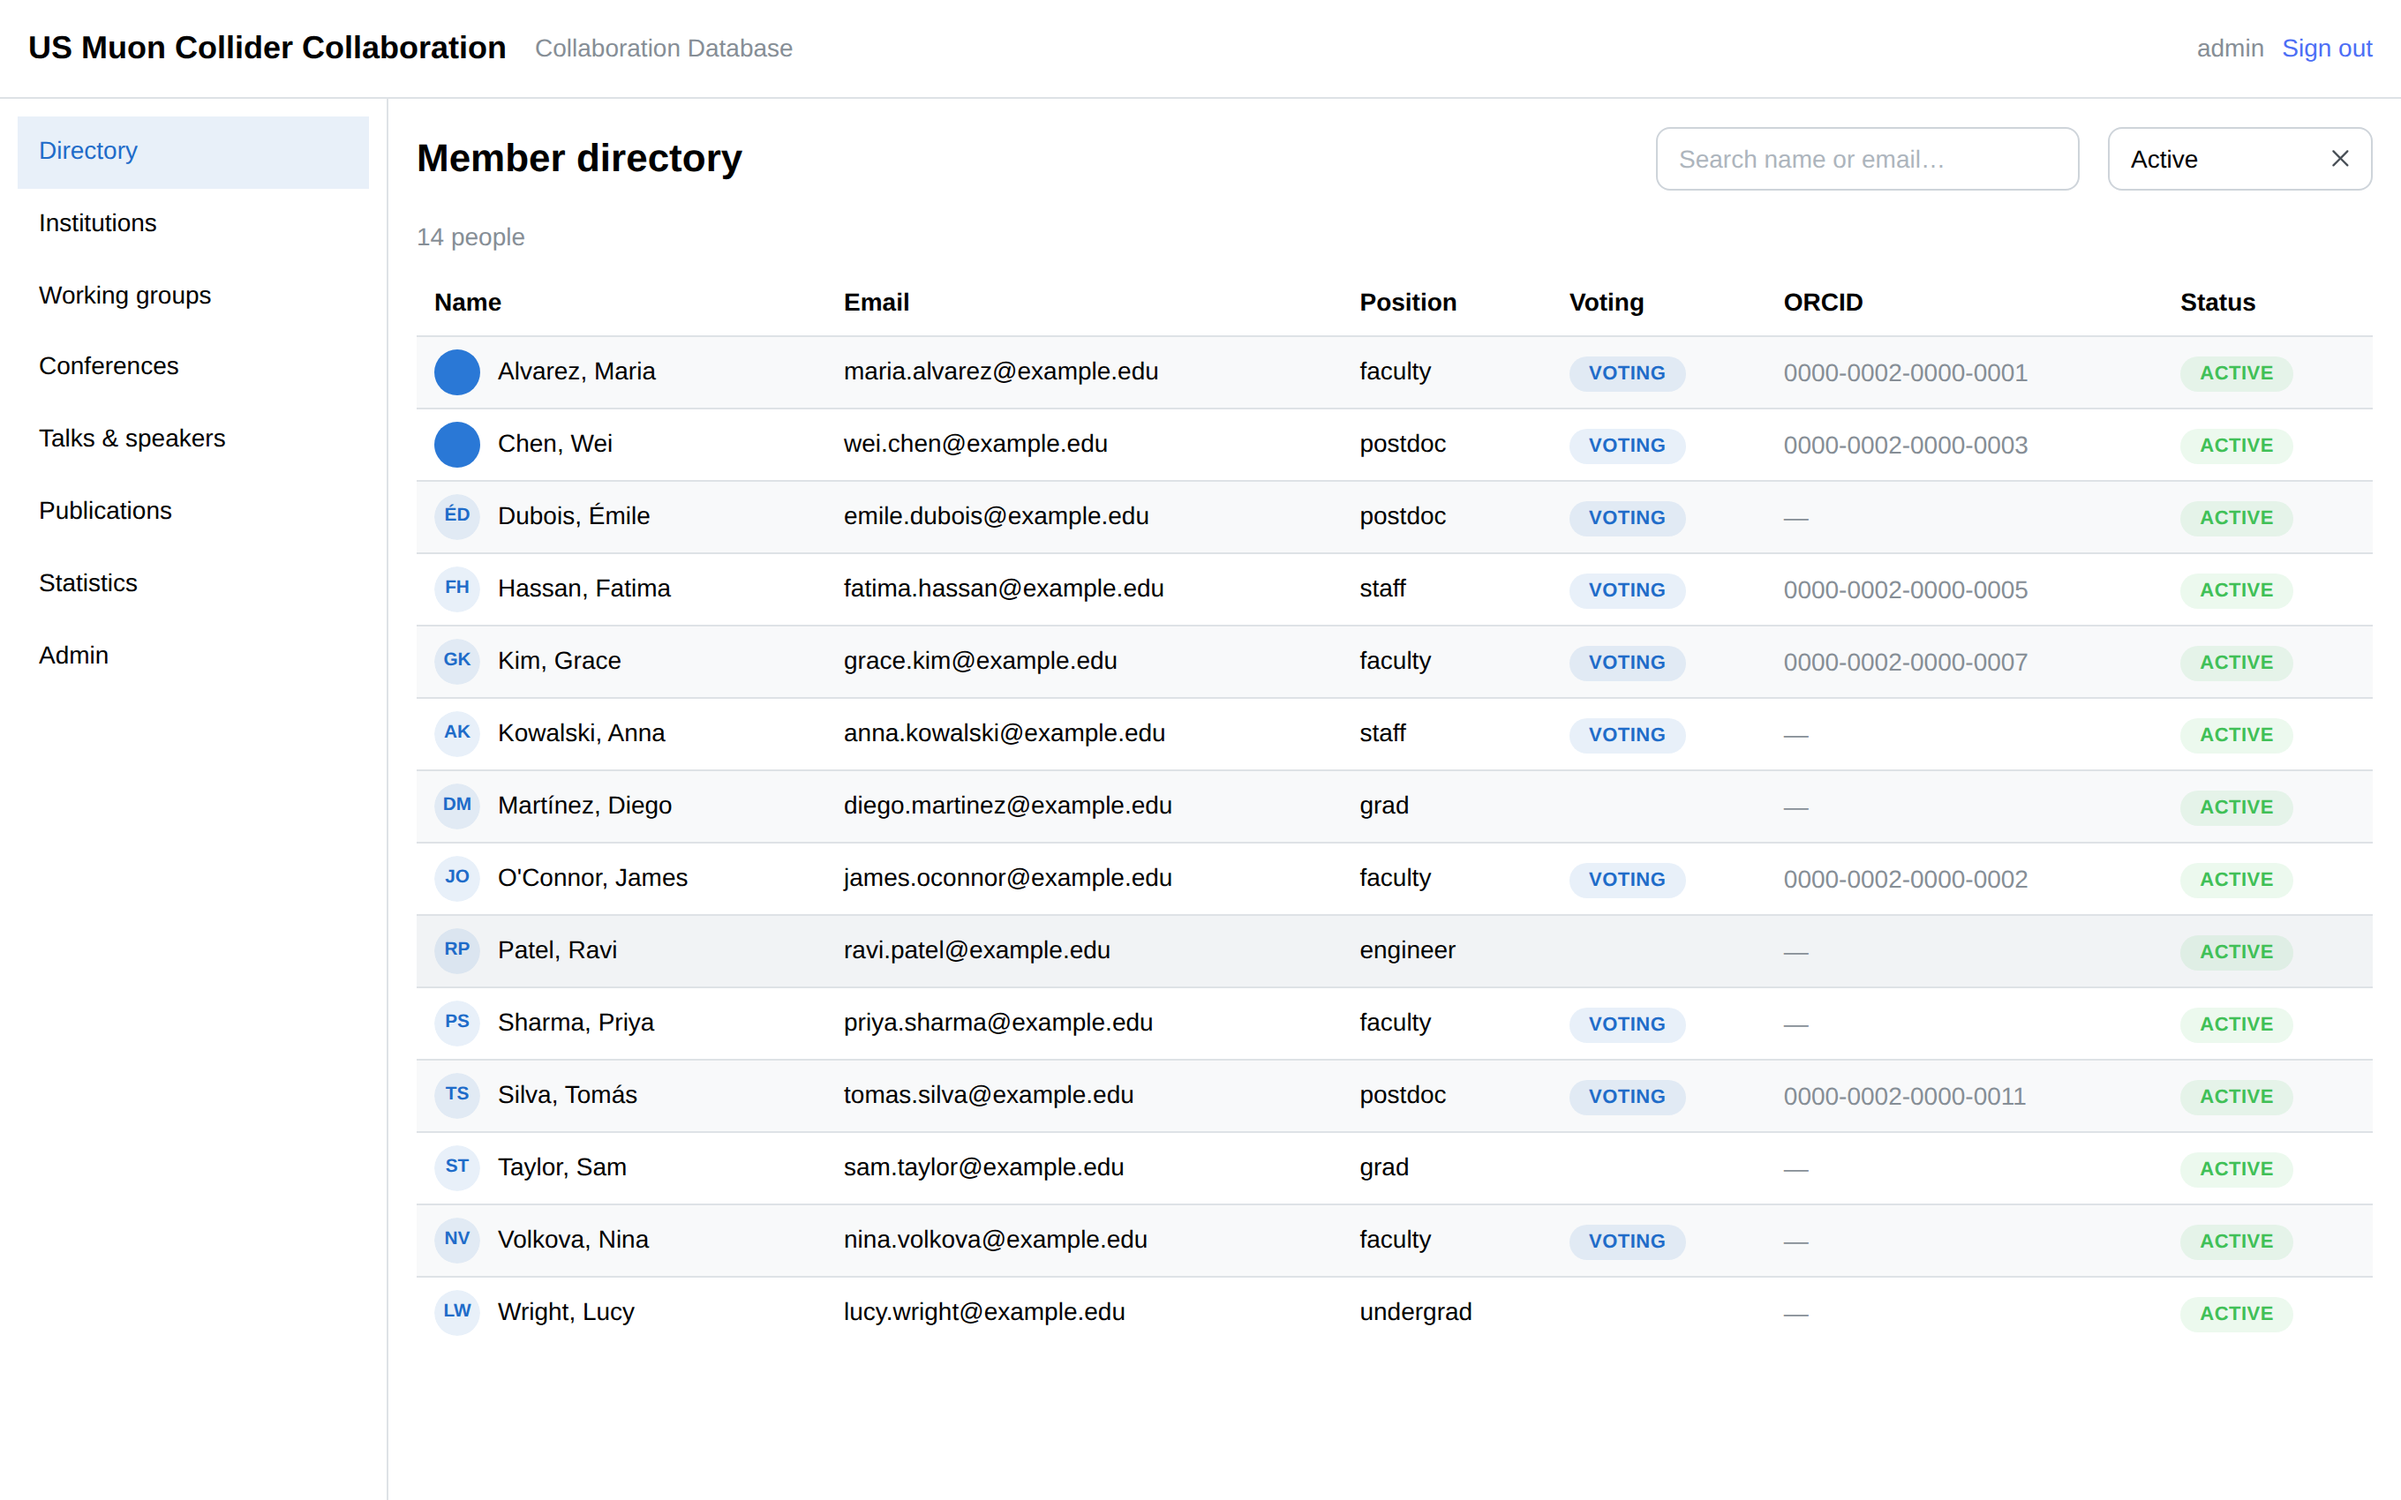
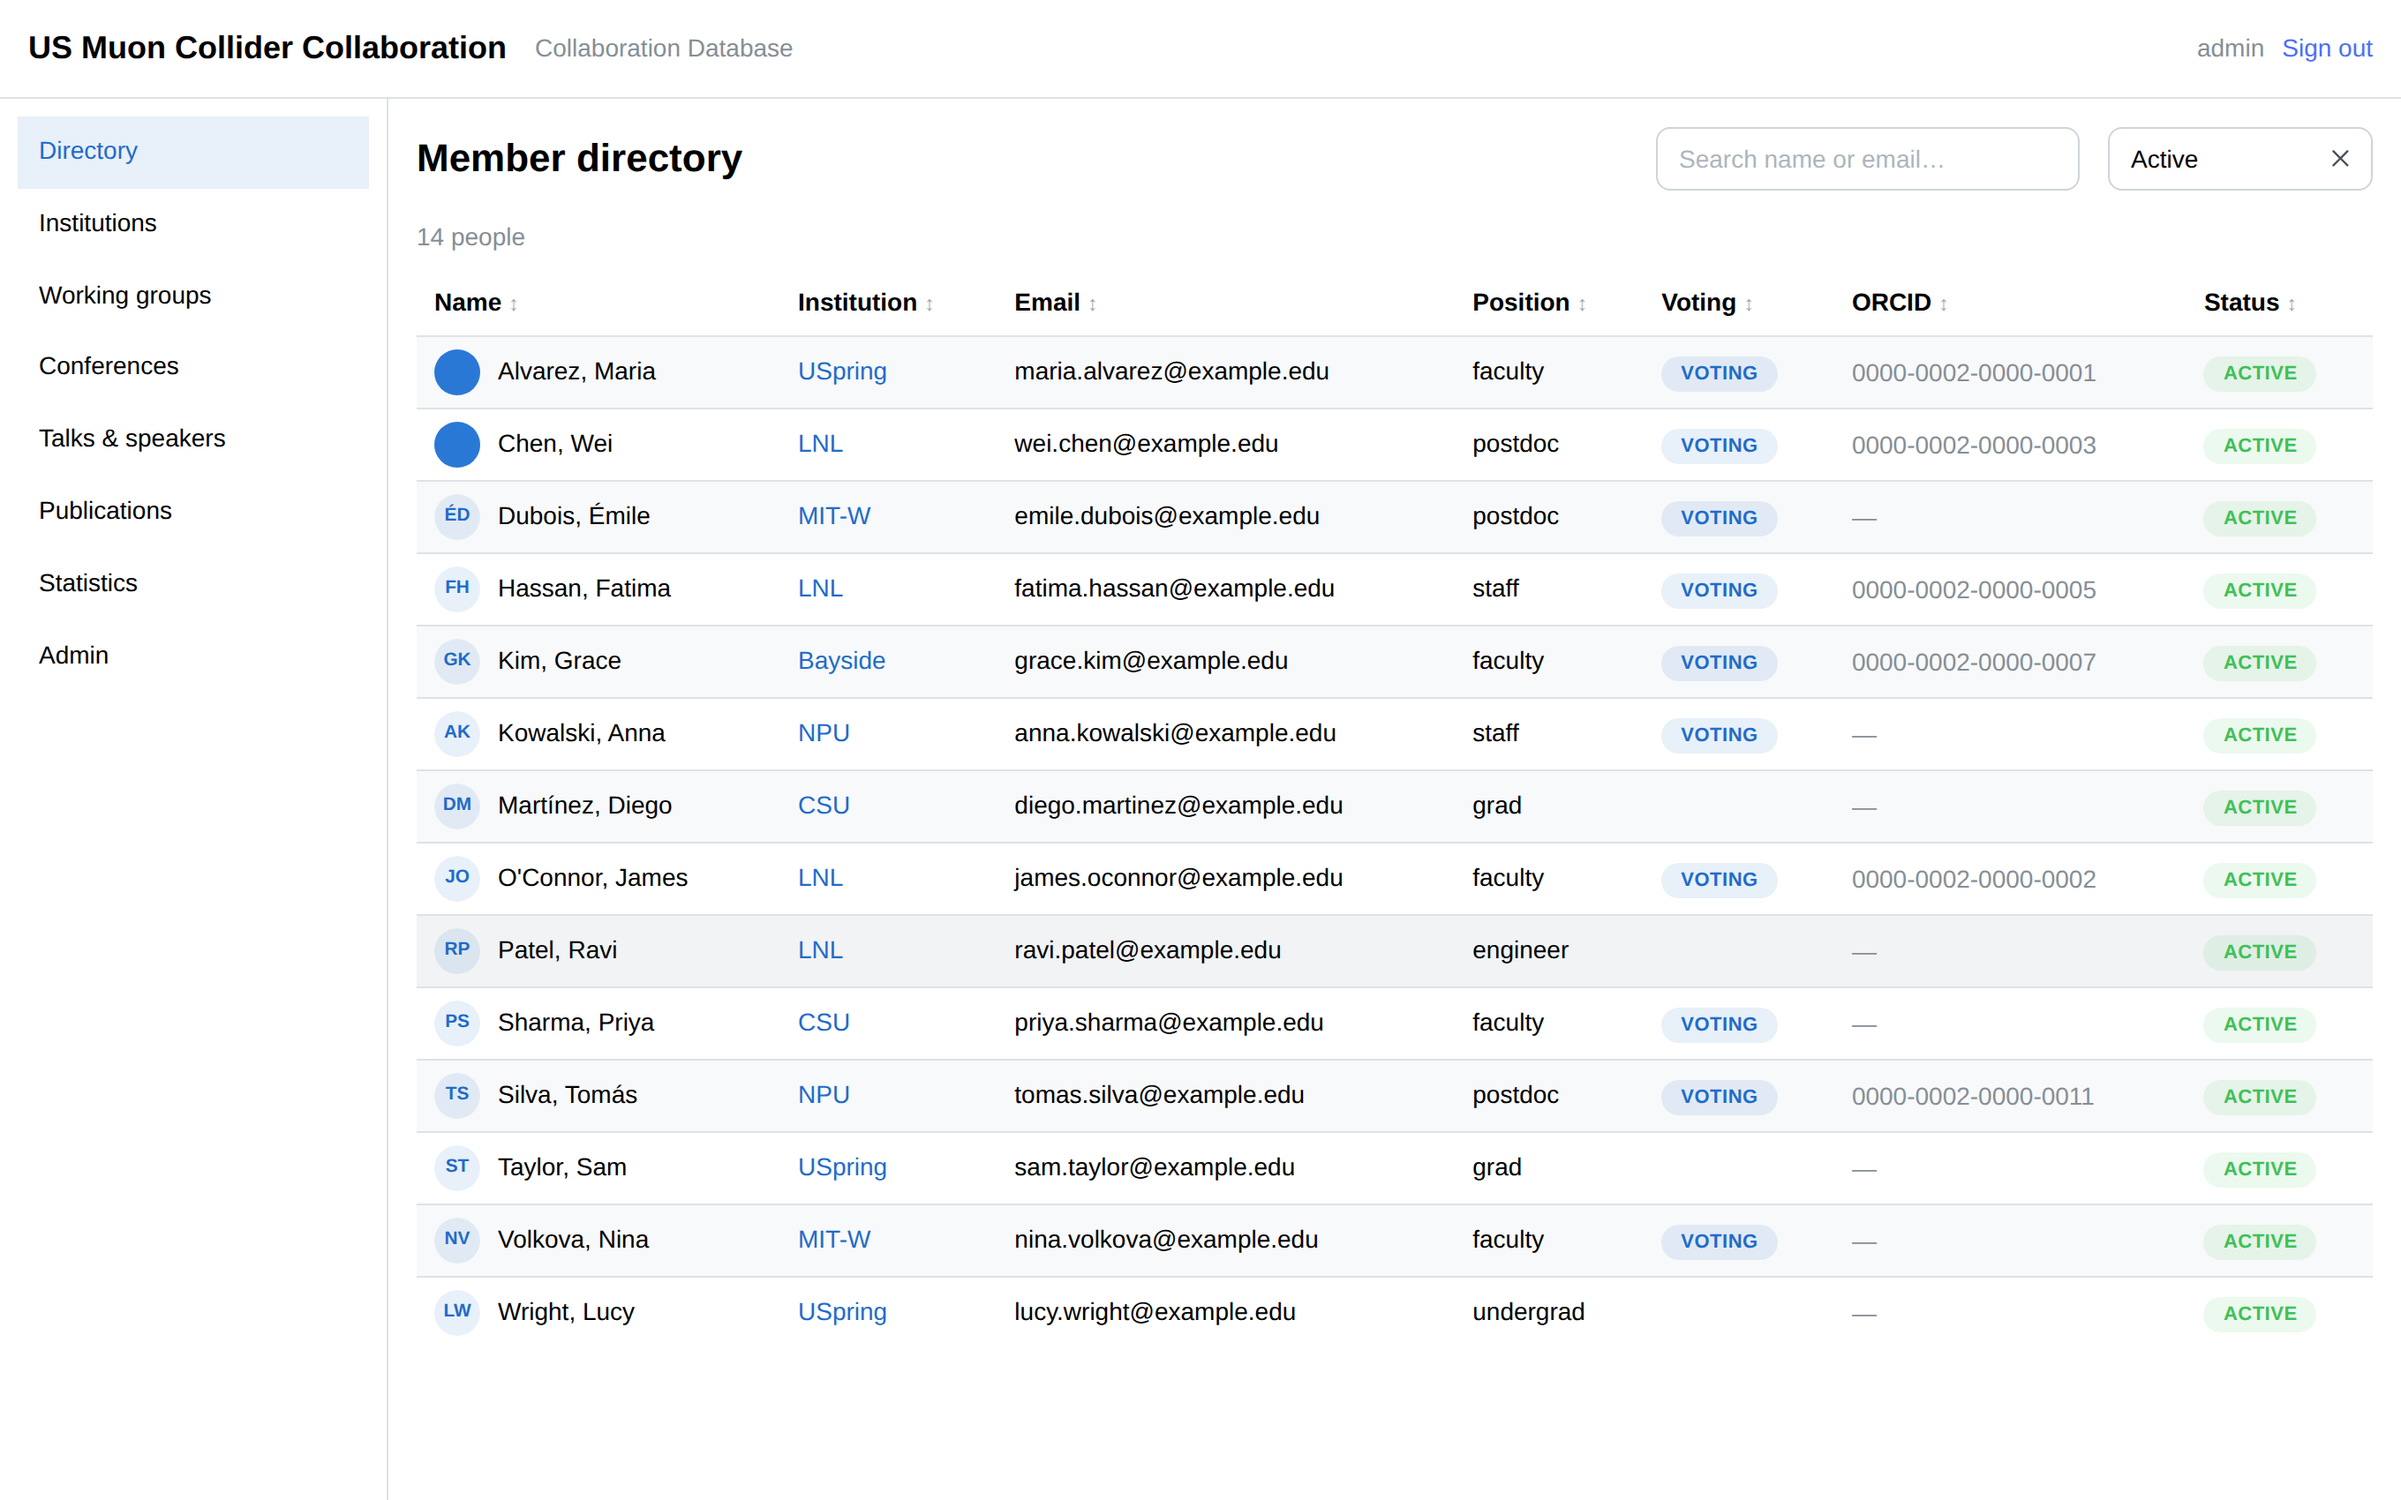
Refresh documentation: README features/screenshots, as-built plan addendum
- README: interconnection + sortable-tables in the feature list, member
  photos in membership bullet, photos in the backup notes, regenerated
  screenshots (now including the institution detail page)
- docs/PLAN.md: as-built addendum recording deviations from the approved
  plan (httpx ORCID, xlsx-first importers, data-driven schema additions)
  and the post-v1 work (photos, issues #3/#4/#9, seed-demo, CI/GHCR)

Claude-Session: https://claude.ai/code/session_01DdUxDKaQvUwKatZvrEpXBk

diff --git a/docs/PLAN.md b/docs/PLAN.md
@@ -161,3 +161,50 @@ USMCC branding: header "US Muon Collider Collaboration — Collaboration Databas
 - `scripts/backup.sh` → dump appears; `scripts/restore.sh` round-trip; `scripts/reset.sh` then re-start
 - Backend unit tests (pytest) for author-list ordering/edge cases (accents, multiple affiliations, closed periods) and permission deps
 - ORCID: verified flow works with sandbox creds if provided; otherwise verify graceful hide of ORCID button when unset (full live test needs user's ORCID client registration — documented in README)
+
+---
+
+## As built (status after v1 + follow-ups)
+
+The plan above was implemented essentially as written (merged via PRs #5–#7).
+Deviations and additions since approval:
+
+### Deviations from the plan
+- **ORCID via direct httpx, not authlib** — the `/authenticate` flow is two
+  requests; a signed state token (itsdangerous) replaced the authlib session
+  machinery (`backend/app/services/orcid.py`).
+- **Single Alembic baseline + incremental revisions** — 0001 creates the whole
+  schema from model metadata; later changes ship as small idempotent
+  revisions (0002 photos, 0003 secondary-affiliation removal).
+- **Field additions driven by the real data** (registration spreadsheet):
+  `people.is_voting`, `people.expertise`, `people.photo_file`,
+  `talks.is_invited`; fair-share stats report invited counts separately.
+- **Importers are xlsx-first** — `import-members-xlsx`, `import-talks-xlsx`,
+  `import-photos-xlsx`/`import-photos-dir` match the collaboration's actual
+  Google-form exports; the generic CSV importer from the plan also exists.
+  Data lives in gitignored `data/` (public repo — no member PII committed).
+
+### Post-v1 additions
+- **Member photos** (PR #6): photos volume, member-only serving, avatar UI
+  with click-to-upload, Drive/folder importers, photos in nightly backups.
+- **Secondary institutions removed** (PR #7, first pass of issue #3):
+  migration 0003 + importer no longer reads the free-text column. Second
+  pass (proper assignment mechanism) still open.
+- **Glance-style interconnection** (PR #8, issue #4): institution detail
+  pages with member lists (`GET /institutions/{id}`), directory institution
+  column, profile ↔ institution ↔ talks cross-links everywhere.
+- **Sortable tables** (PR #10, issue #9): `useSortable` + `SortableTh`
+  applied to all eight listing tables.
+- **`seed-demo` CLI**: fictional dataset for demos and the README screenshots.
+- **CI/CD**: GitHub Actions runs pytest (PostgreSQL 16 service) + frontend
+  build on every push and publishes `ghcr.io/trholmes/usmccdb-{backend,
+  frontend,backup}` tagged by branch; `docker-compose.release.yml` deploys
+  from those images.
+
+### Verification status
+Everything in the Verification section above was executed against the live
+compose stack (including a 285-member import producing a 176-author list
+across 82 institutions, backup/restore round-trip, and 12 passing API/unit
+tests in CI). Not yet exercised for real: Caddy certificate issuance on
+db.muoncollider.us and the live ORCID flow (both need production DNS/keys;
+steps documented in the README).

diff --git a/README.md b/README.md
@@ -13,14 +13,15 @@ used by the LHC experiments, built as a self-hosted open-source stack:
 |---|---|
 | ![Login](docs/screenshots/login.png) | ![Directory](docs/screenshots/directory.png) |
 | ![Talks](docs/screenshots/talks.png) | ![Stats](docs/screenshots/stats.png) |
+| ![Institution](docs/screenshots/institution.png) | ![Publication with author list](docs/screenshots/publication.png) |
 
-![Publication with author list](docs/screenshots/publication.png)
+*(Screenshots show the bundled fictional demo dataset — `seed-demo`.)*
 
 ## What it does
 
 - **Membership** — people, institutions, dated affiliations, voting-member flag,
-  career stage, working groups, leadership roles, and an apply → approve
-  workflow with a full audit trail.
+  career stage, working groups, leadership roles, member photos, and an
+  apply → approve workflow with a full audit trail.
 - **Speakers bureau** — conferences, talk records (plenary/parallel/poster/
   seminar/outreach, invited vs. contributed), member nominations, office
   assignment, and fair-share statistics per person and institution.
@@ -36,6 +37,10 @@ used by the LHC experiments, built as a self-hosted open-source stack:
   username/password accounts; admins can create as many local accounts as
   needed. Roles: `admin`, `office`, `member` (+ working-group conveners with
   scoped rights).
+- **Interconnected, Glance-style** — every page cross-links: directory rows →
+  institution pages (with their member lists) → profiles → the person's talks
+  and back; speaker and stats entries click through to people. Every listing
+  table sorts by any column (click cycles ascending → descending → default).
 
 ## Quick start
 
@@ -133,7 +138,8 @@ Both commands skip people who already have a photo unless you pass
 | `./scripts/logs.sh [service]` | Tail logs |
 
 Backups run automatically every night at `BACKUP_HOUR` (UTC) into the
-`backups` volume, rotated as 14 daily / 8 weekly / 12 monthly dumps. Copy them
+`backups` volume, rotated as 14 daily / 8 weekly / 12 monthly dumps; member
+photos are snapshotted alongside as `photos-<date>.tar.gz`. Copy everything
 off-site with e.g. `docker compose cp backup:/backups ./offsite/`.
 
 All ports/hosts are configurable in `.env` (`HTTP_PORT`, `BIND_HOST`,
